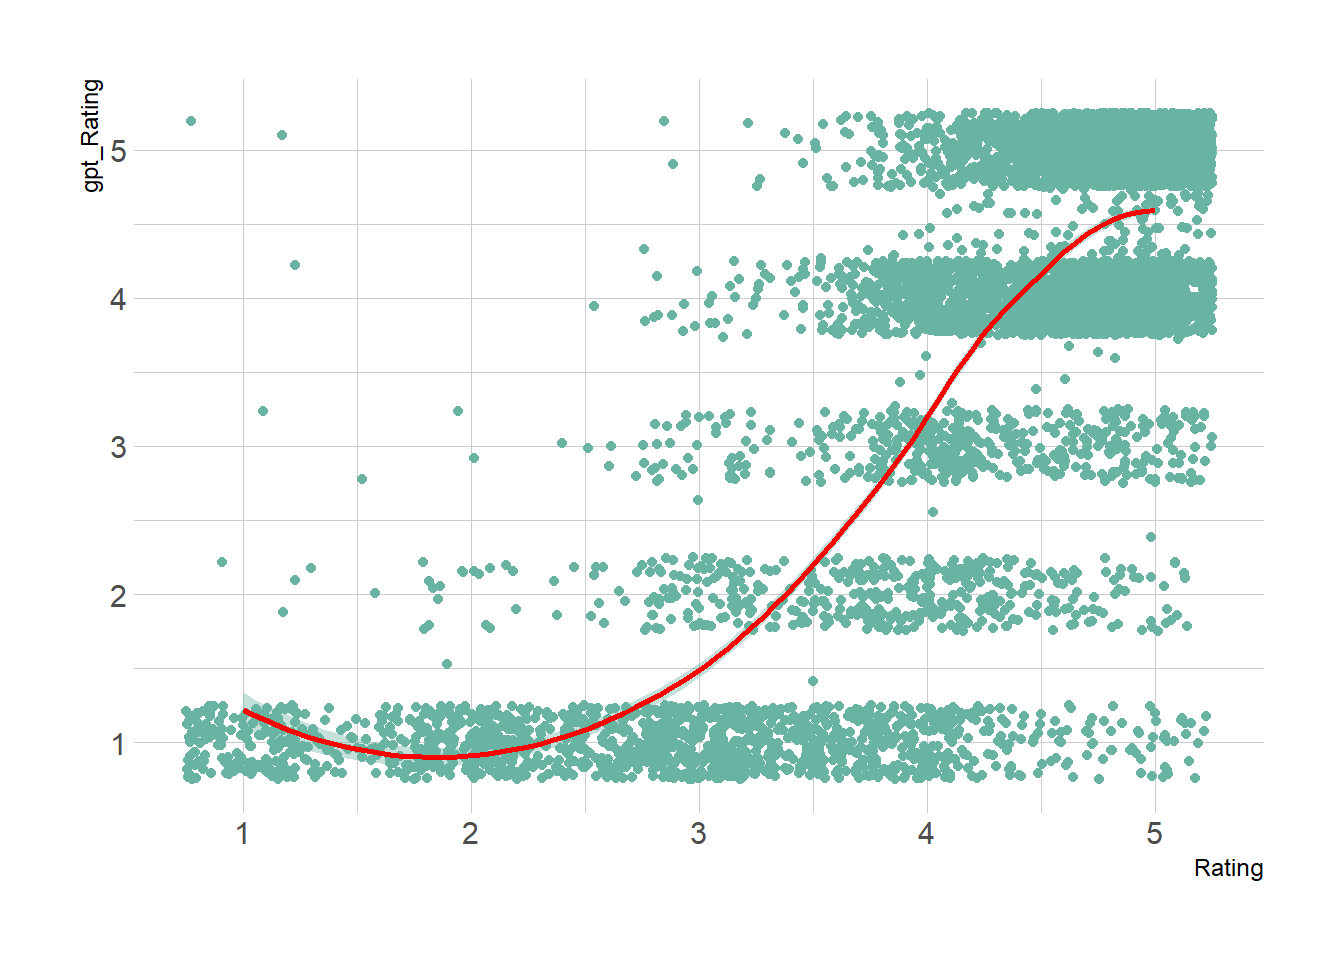
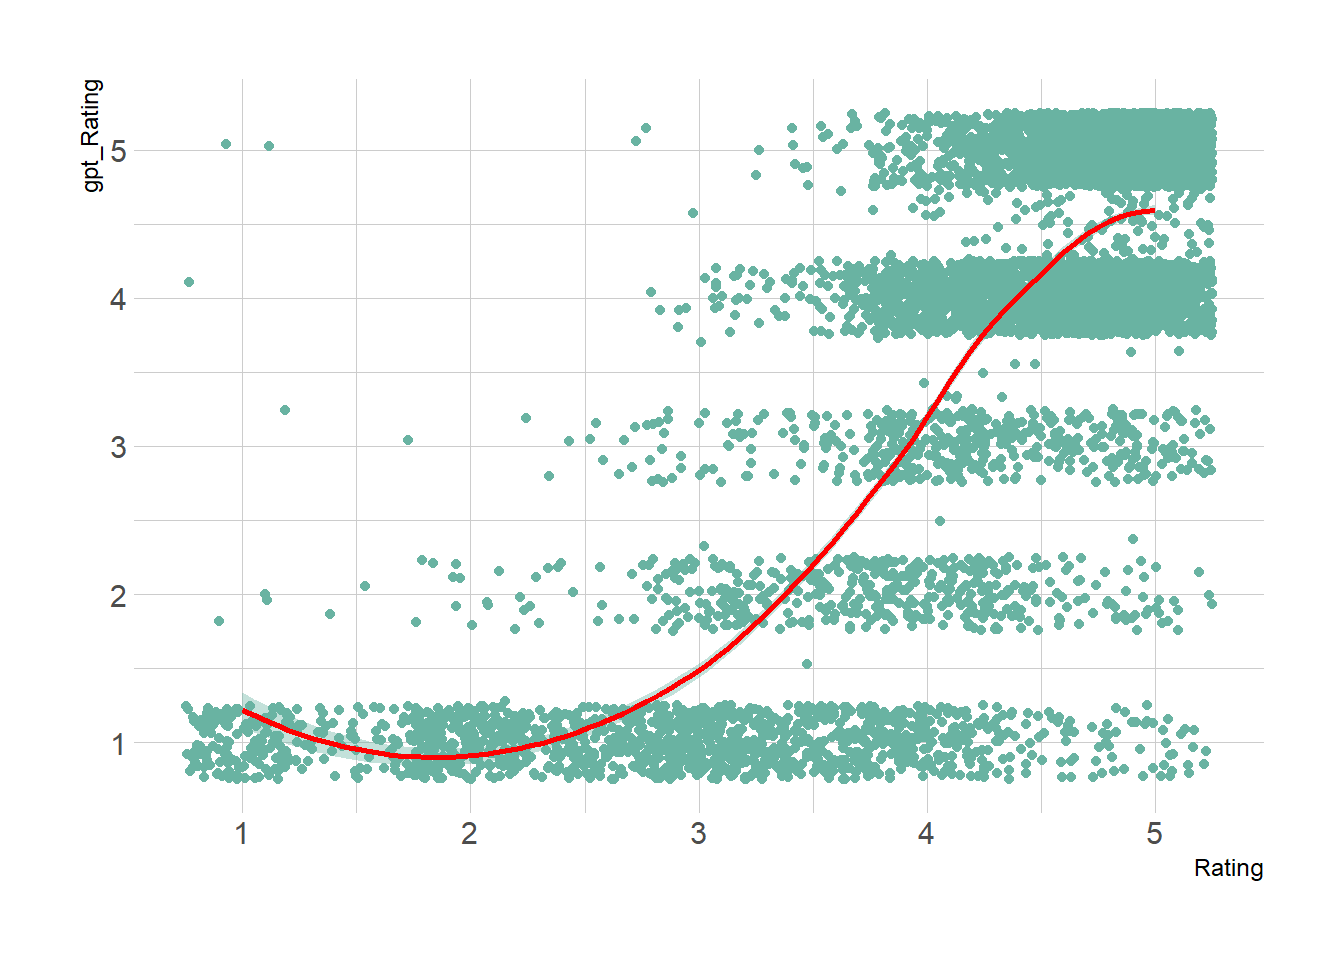
0426 updates
0426 updates

diff --git a/docs/llm-assisted-text-analysis.html b/docs/llm-assisted-text-analysis.html
@@ -179,7 +179,7 @@ window.Quarto = {
   <ul class="collapse">
   <li><a href="#descriptives" id="toc-descriptives" class="nav-link" data-scroll-target="#descriptives">Descriptives</a></li>
   </ul></li>
-  <li><a href="#llm-assisted-coding" id="toc-llm-assisted-coding" class="nav-link" data-scroll-target="#llm-assisted-coding">LLM-Assisted Coding</a></li>
+  <li><a href="#llm-assisted-classification" id="toc-llm-assisted-classification" class="nav-link" data-scroll-target="#llm-assisted-classification">LLM-Assisted Classification</a></li>
   <li><a href="#accuracy-of-llm-assisted-coding" id="toc-accuracy-of-llm-assisted-coding" class="nav-link" data-scroll-target="#accuracy-of-llm-assisted-coding">Accuracy of LLM-Assisted Coding</a></li>
   <li><a href="#disaggregation-by-automaker-country-region" id="toc-disaggregation-by-automaker-country-region" class="nav-link" data-scroll-target="#disaggregation-by-automaker-country-region">Disaggregation by Automaker Country / Region</a></li>
   </ul>
@@ -232,10 +232,10 @@ https://medium.com/@AnalyticsAtMeta/how-facebook-leverages-large-language-models
  -->
 <section id="intro" class="level2">
 <h2 class="anchored" data-anchor-id="intro">Intro</h2>
-<p>Companies commonly collect unstructured textual data containing insights into consumer preferences and behavior (e.g., customer reviews, feedback surveys, support tickets, focus group transcripts, or other product feedback channels). Historically, quantifying and analyzing these data has been challenging, in part because traditional topic modeling or natural language processing methods are complex, opaque, and not always insightful. The advent of LLMs, however, has dramatically simplified the process of analyzing unstructured text and improved the quality of the resulting output.</p>
+<p>Companies commonly collect unstructured textual data containing insights into consumer preferences and behavior. Common examples include customer reviews, feedback surveys, support tickets, or transcripts from focus groups. Historically, coding and analyzing these data has been challenging, in part because traditional topic modeling or natural language processing methods are complex, opaque, and not always insightful. The advent of LLMs, however, has dramatically simplified the process of analyzing unstructured text and improved the quality of the resulting output.</p>
 <p>This page provides a demonstration of the process by which LLMs can be used to code and quantify unstructured textual data. The process involves four steps:</p>
 <ol type="1">
-<li>Define the codes (variables) to be applied to the unstructured textual data.<a href="#fn1" class="footnote-ref" id="fnref1" role="doc-noteref"><sup>1</sup></a></li>
+<li>Define the codes (variables) that will be used to classify the unstructured textual data.<a href="#fn1" class="footnote-ref" id="fnref1" role="doc-noteref"><sup>1</sup></a></li>
 <li>Using your preferred LLM’s API, submit the unstructured textual data to the LLM alongside prompts for each code. Specify that results be returned in JSON format.</li>
 <li>Validate the accuracy of the resulting LLM-coded output against a small subset of human-coded observations. If necessary, refine the prompts and/or codes and repeat steps 1-3 until an acceptable accuracy level is reached.<br>
 </li>
@@ -245,7 +245,7 @@ https://medium.com/@AnalyticsAtMeta/how-facebook-leverages-large-language-models
 </section>
 <section id="data" class="level2">
 <h2 class="anchored" data-anchor-id="data">Data</h2>
-<p>We’ll use data on car reviews scrapped from <a href="www.edmunds.com">Edmunds.com</a> and made publicly available on <a href="www.kaggle.com">Kaggle</a>. For each review, the dataset provides the date, vehicle brand, review text and title, and the customer’s overall satisfaction rating on a scale of 0 to 5 for. The data cover approximately 206,000 reviews submitted between 2004 and 2018. The goal is to code the sentiment of each review (setting aside for time being thatalready have the reviewer’s numeric satisfaction rating), as well as various metrics that we might be interested in tracking overtime, such as whether the reviewer references the vehicle’s reliability, safety, drive characteristics, or other variables of interest.</p>
+<p>We’ll use data on car reviews scrapped from <a href="www.edmunds.com">Edmunds.com</a> and made publicly available on <a href="www.kaggle.com">Kaggle</a>. For each review, we have data on the date the review was submitted, vehicle brand, review text and title, and the customer’s overall satisfaction rating on a scale of 0 to 5 for. The data cover approximately 206,000 reviews submitted between 2004 and 2018. The goal is to code the sentiment of each review (setting aside for time being that we already have reviewers’ numeric satisfaction rating), as well as various metrics that we might be interested in tracking overtime, such as whether the reviewer references the vehicle’s reliability, safety, drive characteristics, or other variables of interest.</p>
 <div class="cell">
 <div class="sourceCode cell-code" id="cb1"><pre class="sourceCode r code-with-copy"><code class="sourceCode r"><span id="cb1-1"><a href="#cb1-1" aria-hidden="true" tabindex="-1"></a><span class="co"># load packages</span></span>
 <span id="cb1-2"><a href="#cb1-2" aria-hidden="true" tabindex="-1"></a><span class="fu">library</span>(tidyverse)</span>
@@ -296,8 +296,8 @@ $ country       &lt;chr&gt; "American", "American", "American", "American", "Ame
 </div>
 </section>
 </section>
-<section id="llm-assisted-coding" class="level2">
-<h2 class="anchored" data-anchor-id="llm-assisted-coding">LLM-Assisted Coding</h2>
+<section id="llm-assisted-classification" class="level2">
+<h2 class="anchored" data-anchor-id="llm-assisted-classification">LLM-Assisted Classification</h2>
 <p>First, let’s familiarize ourself with the type of data we’ll be classifying. Here’s a random sample of five reviews:</p>
 <div class="cell">
 <div class="cell-output-display">
@@ -312,29 +312,29 @@ $ country       &lt;chr&gt; "American", "American", "American", "American", "Ame
 </thead>
 <tbody>
 <tr class="odd">
-<td style="text-align: left;">dodge</td>
-<td style="text-align: left;">Perfect new Dakota Styling</td>
-<td style="text-align: left;">Dodge really improved on the body styling for 2005....It's good to see that a reasonably priced truck can look better than what the other automakers are selling....I also had a 2000 Quad Cab 4x4 and never had a problem with it....</td>
+<td style="text-align: left;">mini</td>
+<td style="text-align: left;">New Owner</td>
+<td style="text-align: left;">I drove it for two days in the West Virginia mountains using the paddel shifter. It was a blast. The only change I would make is an electric adjustable drivers seat. It is a great car, but it is not as much fun as my 1990 British Open Mini. Everyone should have one.</td>
 </tr>
 <tr class="even">
-<td style="text-align: left;">ford</td>
-<td style="text-align: left;">Extreme Disappointment</td>
-<td style="text-align: left;">The Ford 5.4L is woefully underpowered. It is sluggish and is a total dog in the mountains as well as when towing. I do like the interior fit and finish as well as the functionality of the layout.</td>
+<td style="text-align: left;">chevrolet</td>
+<td style="text-align: left;">Big Truck Like a Rock</td>
+<td style="text-align: left;">Solid truck with lots of power. This baby is great and I look good in it. I fly F16's for a living and drive Chevy's when not airborne. The Duramax is unbelievable, tows the trailer like it isnt there. Go buy one.</td>
+</tr>
+<tr class="odd">
+<td style="text-align: left;">buick</td>
+<td style="text-align: left;">Maintain your Buick !!!</td>
+<td style="text-align: left;">My 2004 Buick has 168000 miles on it. I've replace the right front hup, put two sensors on it and it will pass inspection tomorrow. Flush the transmission at 100,000 miles keep the oil changed sooner than the book says, keep the tires in check. Best driving, riding SUV I've ever drove.</td>
+</tr>
+<tr class="even">
+<td style="text-align: left;">kia</td>
+<td style="text-align: left;">What a Mistake</td>
+<td style="text-align: left;">I like that way this car handles and that is what sold me. The repair problems have made me decide to get rid of this car after having had it only 10 months. It seems like it's hard to keep ahead of it falling apart. I have never had the misfortune to have ever gotten a car like this before.</td>
 </tr>
 <tr class="odd">
 <td style="text-align: left;">chevrolet</td>
-<td style="text-align: left;">Great Truck</td>
-<td style="text-align: left;">By far the best truck I drove. I have a 5600lb boat and I don't even know its behind me most of the time. Great room inside and more standard features than Dodge or Ford. I LOVE my truck</td>
-</tr>
-<tr class="even">
-<td style="text-align: left;">lincoln</td>
-<td style="text-align: left;">My Lincoln Ride</td>
-<td style="text-align: left;">I really enjoy my Lincoln. It is the second L S I have Owned. My first was a 2002 LS. The power is great. it is real Quick. I tested a Chrysler 300 hemi It was quick, but did not have the luxury feel of a Lincoln. My choice was the LS.</td>
-</tr>
-<tr class="odd">
-<td style="text-align: left;">acura</td>
-<td style="text-align: left;">My ride</td>
-<td style="text-align: left;">I have had my Type S for a little over a year now. I love the sound of the engine. This is my second car in my lifetime the first one was an Acura Legend. They know how to make cars.</td>
+<td style="text-align: left;">2009 beige cobalt</td>
+<td style="text-align: left;">Fun to drive, 30000 miles, mechanical problems, turn signal wouldn't shut off, now "something " is draining the battery, in shop for diagnosis. could not locate fob for above mentioned car</td>
 </tr>
 </tbody>
 </table>
@@ -345,7 +345,7 @@ $ country       &lt;chr&gt; "American", "American", "American", "American", "Ame
 <!--
 We'll use the @ellmer package to code the data. 
 -->
-<p>We’ll use the <a href="https://ellmer.tidyverse.org/"><strong>ellmer</strong></a> package to code the data. ellmer supports a wide variety of LLM providers; for now, we’ll use OpenAI’s GPT-4o model.</p>
+<p>We’ll use the <a href="https://ellmer.tidyverse.org/"><strong>ellmer</strong></a> package to code the data. <a href="https://ellmer.tidyverse.org/"><strong>ellmer</strong></a> supports a wide variety of LLM providers; for now, we’ll use OpenAI’s GPT-4o model.</p>
 <!--
 Note: for first time, need to add your open_api_ai key as an environmental variable. To edit your environment, open Renvirion via: usethis::edit_r_environ()
 -->
@@ -361,10 +361,9 @@ Note: for first time, need to add your open_api_ai key as an environmental varia
 <span id="cb4-9"><a href="#cb4-9" aria-hidden="true" tabindex="-1"></a>chat<span class="sc">$</span><span class="fu">chat</span>(<span class="st">"Is R a functional programming language?"</span>)</span></code><button title="Copy to Clipboard" class="code-copy-button"><i class="bi"></i></button></pre></div>
 <div class="cell-output cell-output-stdout">
 <pre><code>Yes, R supports functional programming paradigms, allowing functions to be 
-first-class citizens. You can pass functions as arguments, return them from 
-other functions, and create higher-order functions. However, it's also a 
-multi-paradigm language, incorporating procedural and object-oriented 
-programming styles.</code></pre>
+first-class citizens. You can create, pass, and return functions, and it 
+includes features like higher-order functions and closures. However, it also 
+supports object-oriented and procedural programming styles.</code></pre>
 </div>
 </div>
 <p>Define the prompts that will be used to code the data:</p>
@@ -394,7 +393,7 @@ programming styles.</code></pre>
 <span id="cb6-23"><a href="#cb6-23" aria-hidden="true" tabindex="-1"></a></span>
 <span id="cb6-24"><a href="#cb6-24" aria-hidden="true" tabindex="-1"></a>text</span></code><button title="Copy to Clipboard" class="code-copy-button"><i class="bi"></i></button></pre></div>
 <div class="cell-output cell-output-stdout">
-<pre><code>[1] "I've always wanted a Volvo turbo wagon. When I came across a left over 05 T5 AWD..I decided to take a chance on a non-Japanese made car. After only 3K I'm not sure it was a wise decision. Car developed serious left pull,door hinge squeaked loudly,radio freezes on occasion, hinged door on cargo cover rattles so badly I've simply removed it, armrest storage lid stuck and was replaced, as was the power steering pump..yep. It does drive nicely.Ample power.Good handling.Great in foul weather even w/17\" wheels and stock all-season Pilots.I'm averaging 20.2 MPG. After years of driving Japanese cars and dreaming of owing a Volvo I can only hope this doesn't turn out to be a nightmare."</code></pre>
+<pre><code>[1] "I bought the car in 2002 with 82,000 \rmiles on it. It now has 122,000 miles \rand is still tight and reliable. Other \rthan brakes, tires, and oil changes \rthis car has been nearly trouble free. \rI did have to replace the driver's side \relectric window motor."</code></pre>
 </div>
 <div class="sourceCode cell-code" id="cb8"><pre class="sourceCode r code-with-copy"><code class="sourceCode r"><span id="cb8-1"><a href="#cb8-1" aria-hidden="true" tabindex="-1"></a>chat <span class="ot">&lt;-</span> <span class="fu">chat_openai</span>()</span></code><button title="Copy to Clipboard" class="code-copy-button"><i class="bi"></i></button></pre></div>
 <div class="cell-output cell-output-stderr">
@@ -404,14 +403,14 @@ programming styles.</code></pre>
 <span id="cb10-2"><a href="#cb10-2" aria-hidden="true" tabindex="-1"></a><span class="fu">str</span>(coded.review)</span></code><button title="Copy to Clipboard" class="code-copy-button"><i class="bi"></i></button></pre></div>
 <div class="cell-output cell-output-stdout">
 <pre><code>List of 9
- $ sentiment      : chr "neutral"
- $ gpt_Rating     : int 3
+ $ sentiment      : chr "positive"
+ $ gpt_Rating     : num 4.5
  $ reliability    : int 1
- $ utility        : int 1
- $ driving        : int 1
+ $ utility        : int 0
+ $ driving        : int 0
  $ comfort        : int 0
- $ interior       : int 1
- $ fuel_efficiency: int 1
+ $ interior       : int 0
+ $ fuel_efficiency: int 0
  $ technology     : int 0</code></pre>
 </div>
 </div>
